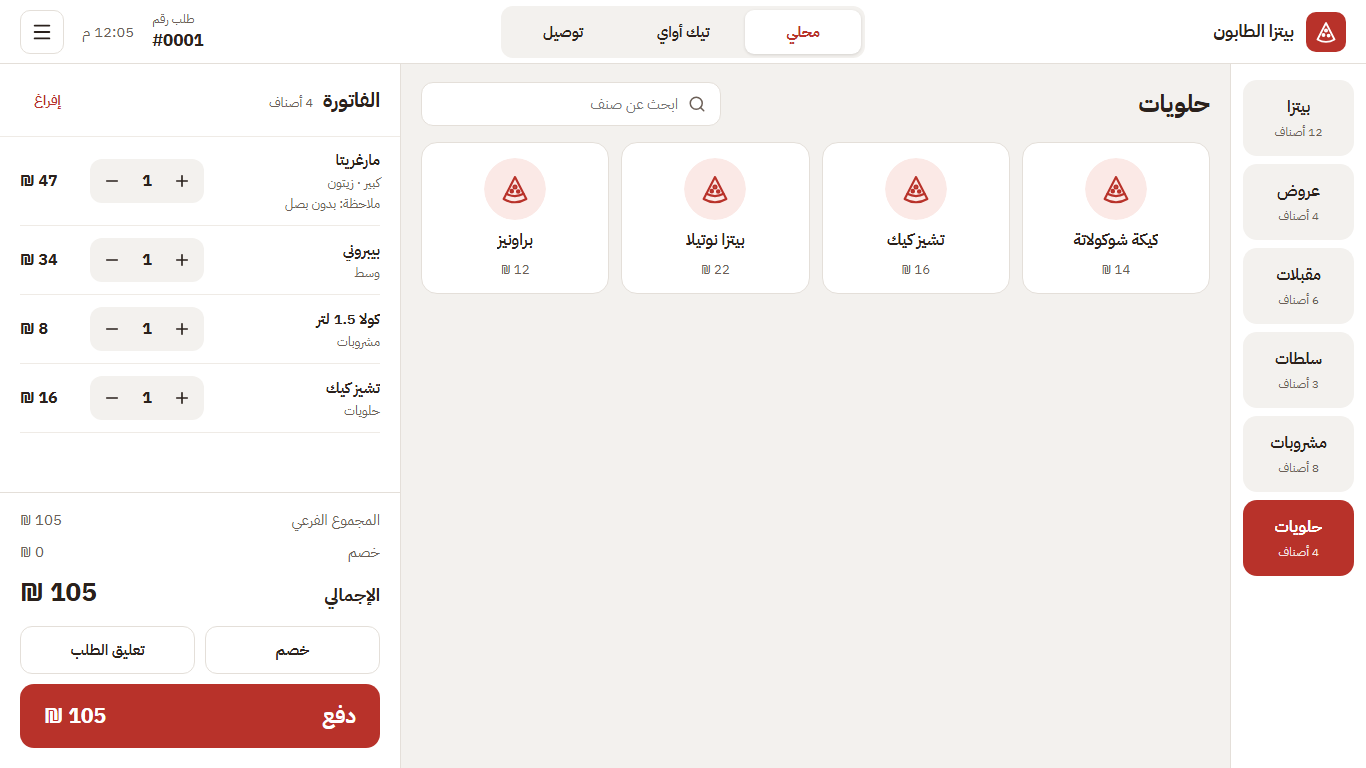
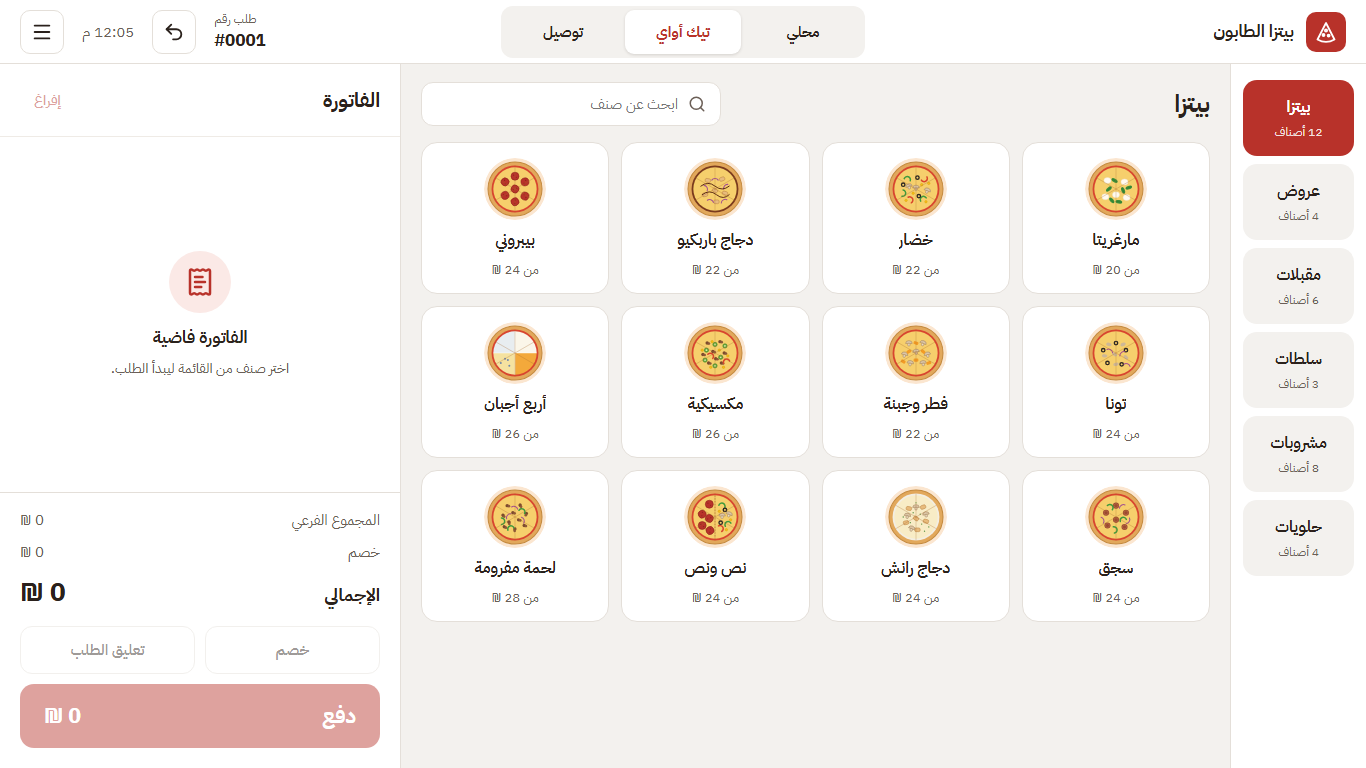
docs: README and screenshots for 0.2.2–0.2.6
New features: item pictures and gallery, compact tiles, adding to a paid
order (screen, receipt and kitchen ticket), delivery zones, delivery fees
for the drivers in the reports. Retaken: sale, delivery bill, report,
customer receipt and kitchen ticket.

Claude-Session: https://claude.ai/code/session_01Fxf86x6TtfntTqsfUUf7mP

diff --git a/README.md b/README.md
@@ -18,11 +18,14 @@
 
 | | الميزة | شو بتعمل |
 |---|---|---|
-| 🧾 | **شاشة البيع** | تصنيفات على اليمين، الأصناف بالنص، الفاتورة على اليسار. محلي / تيك أواي / توصيل، تعليق طلب واسترجاعه، بحث عن صنف |
+| 🧾 | **شاشة البيع** | تصنيفات على اليمين، الأصناف بالنص، الفاتورة على اليسار. محلي / تيك أواي / توصيل، تعليق طلب واسترجاعه، بحث عن صنف. أزرار الأصناف بحجم عادي أو **مضغوط** للشاشات الصغيرة |
+| 🖼 | **صور الأصناف** | رسمة جاهزة لكل صنف بالمنيو التجريبي، و**معرض** بتختار منه لأي صنف جديد، أو صورة من الجهاز (حتى صورة موبايل كبيرة، بتنقصّ وبتصغر لحالها) |
+| ➕ | **الإضافة على طلب مدفوع** | الزبون دفع وبعدين طلب كولا؟ زر "طلب سابق" بيرجّع الطلب عالفاتورة، بتضيف عليه وبتدفع **الفرق بس**، على نفس الطلب ونفس الرقم، والمطبخ بتوصله الإضافة بس |
 | 🍕 | **الأحجام والإضافات** | سعر لكل حجم، إضافات مدفوعة، كمية، وملاحظة للمطبخ |
 | 💵 | **الدفع** | كاش / بطاقة / تطبيق دفع، مبالغ سريعة، لوحة أرقام، حساب الباقي، ودفع مقسّم |
-| 🖨 | **الطباعة** | فاتورة الزبون وتذكرة المطبخ تلقائيًا بعد الدفع. طابعات حرارية 80 أو 58 مم (شبكة، USB، أو تعريف ويندوز) |
-| 🛵 | **التوصيل** | اسم الزبون وهاتفه وعنوانه، رسوم التوصيل، وبيتذكّر الزبون من رقم هاتفه |
+| 🖨 | **الطباعة** | فاتورة الزبون وتذكرة المطبخ تلقائيًا بعد الدفع. طابعات حرارية 80 أو 58 مم (شبكة، USB، أو تعريف ويندوز). خيار لإخفاء رقم الطلب ورقم الفاتورة عن فاتورة الزبون |
+| 🛵 | **التوصيل** | اسم الزبون وهاتفه وعنوانه، رسوم التوصيل (ثابتة أو يدوية)، وبيتذكّر الزبون من رقم هاتفه |
+| 🗺 | **مناطق التوصيل** | قرى ومناطق قريبة لكل وحدة رسوم ثابتة: بتختار المنطقة والرسوم بتنحط لحالها. والرسوم ممكن تكون **للشوفارية**: بتطلع على فاتورة الزبون بس ما بتنحسب من مبيعات المحل ولا من كاش الدرج |
 | 🏷 | **الخصومات** | نسبة أو مبلغ، بحد أقصى، وبموافقة المدير |
 | ↩ | **الإلغاء** | إلغاء طلب أو صنف من "طلبات اليوم" مع السبب وموافقة المدير |
 | 📊 | **التقارير** | تقرير اليوم، إغلاق اليوم (Z) ونسخة (X)، تقرير حسب الساعة، وتقارير لفترة |
@@ -43,15 +46,27 @@
 |---|---|
 | ![اختيار الحجم](screenshots/size-picker.png) | ![الدفع](screenshots/payment.png) |
 | السعر بيتحدّث مع الحجم والإضافات والكمية | المطلوب، المستلم، الباقي، مبالغ سريعة |
-| **طلب توصيل** | **الخصم** |
-| ![توصيل](screenshots/delivery-bill.png) | ![خصم](screenshots/discount.png) |
-| بيانات الزبون فوق الفاتورة ورسوم التوصيل بالمجموع | نسبة أو مبلغ، وبيطلب PIN المدير |
+| **أزرار مضغوطة** | **معرض الصور** |
+| ![أزرار مضغوطة](screenshots/sale-compact.png) | ![معرض الصور](screenshots/gallery.png) |
+| أصناف أكثر بنفس الشاشة، بدون تمرير | رسمة لأي صنف بضغطة، أو صورة من الجهاز |
+| **طلب سابق** | **الإضافة على طلب مدفوع** |
+| ![طلب سابق](screenshots/previous-orders.png) | ![الإضافة على طلب مدفوع](screenshots/add-to-paid.png) |
+| طلبات اليوم المدفوعة، و"إضافة" على أي واحد | الأصناف المدفوعة مقفولة، والدفع للفرق بس |
+| **فاتورة الإضافة** | **تذكرة المطبخ للإضافة** |
+| ![فاتورة الإضافة](screenshots/receipt-addition.png) | ![تذكرة المطبخ للإضافة](screenshots/receipt-kitchen-addition.png) |
+| الطلب كامل بالدفعتين، ومكتوب "إضافة على الطلب" | الأصناف الجديدة بس |
+| **طلب توصيل** | **منطقة التوصيل** |
+| ![توصيل](screenshots/delivery-bill.png) | ![منطقة التوصيل](screenshots/delivery-zones.png) |
+| بيانات الزبون ومنطقته فوق الفاتورة، ورسوم المنطقة بالمجموع | ضغطة على المنطقة بتحط رسومها لحالها |
+| **مناطق التوصيل** | **الخصم** |
+| ![مناطق التوصيل](screenshots/delivery-zones-settings.png) | ![خصم](screenshots/discount.png) |
+| القرى القريبة ورسوم كل وحدة | نسبة أو مبلغ، وبيطلب PIN المدير |
 | **طلبات اليوم** | **تقرير اليوم** |
 | ![طلبات اليوم](screenshots/orders.png) | ![تقرير اليوم](screenshots/report.png) |
-| إعادة طباعة، إلغاء، واسترجاع الطلبات المعلّقة | حسب طريقة الدفع ونوع الطلب، الأكثر مبيعًا، إغلاق اليوم |
+| إعادة طباعة، إلغاء، واسترجاع الطلبات المعلّقة | المبيعات بدون رسوم الشوفارية، والرسوم لحالها، والكاش المفروض بالدرج |
 | **فاتورة الزبون المطبوعة** | **تذكرة المطبخ** |
 | ![فاتورة الزبون](screenshots/receipt-customer.png) | ![تذكرة المطبخ](screenshots/receipt-kitchen.png) |
-| شعار المحل، الأصناف، الدفع والباقي | بدون أسعار، بخط كبير، مع الإضافات والملاحظات |
+| الزبون ومنطقته، الأصناف، رسوم التوصيل، الدفع | بدون أسعار، بخط كبير، مع الإضافات والملاحظات |
 | **الأصناف والأسعار** | **الطابعات** |
 | ![الأصناف](screenshots/menu-settings.png) | ![الطابعات](screenshots/printers.png) |
 | سعر لكل حجم، متوفر أو خلصان، والتعديل بيبيّن فورًا | معاينة حيّة للفاتورة، وطباعة تجريبية |
@@ -84,12 +99,17 @@ flowchart LR
 3. **بيضغط "دفع"**، بيختار طريقة الدفع، وبيكتب المبلغ المستلم، والبرنامج بيحسب الباقي.
 4. **"دفع وطباعة"** بيطبع فاتورة الزبون وتذكرة المطبخ، وبيفتح طلب جديد فاضي بالرقم الجاي.
 5. **طلب مش جاهز للدفع؟** "تعليق الطلب" بيحفظه، وبترجعله من "طلبات اليوم".
+6. **الزبون بده إشي كمان بعد ما دفع؟** زر "طلب سابق" (↶) جنب رقم الطلب بيفتح طلبات اليوم المدفوعة. "إضافة" بترجّع الطلب
+   عالفاتورة، بتضيف الصنف، وبتدفع الفرق بس. نفس الطلب ونفس الرقم، وفاتورة جديدة للزبون، وتذكرة للمطبخ فيها الإضافة بس.
+7. **بالتوصيل** بيختار منطقة الزبون من "بيانات الزبون"، ورسومها بتنحط عالفاتورة لحالها.
 
 ### آخر اليوم
 
 - **"تقرير اليوم"** بيعرض المبيعات، وعدد الطلبات، والتوزيع حسب طريقة الدفع ونوع الطلب، والأصناف الأكثر مبيعًا، والكاش
   المفروض يكون بالدرج.
 - **"إغلاق اليوم"** (بـ PIN المدير) بيطبع تقرير Z، وبيقفل طلبات اليوم، وبيبلّش ترقيم جديد لليوم الجاي.
+- **رسوم التوصيل للشوفارية؟** إذا "رسوم التوصيل من مدخول المحل" مطفي، الرسوم بتطلع لحالها بالتقرير "(للشوفارية)"، والمبيعات
+  والكاش المفروض بالدرج بينحسبوا بدونها.
 - **اليوم التجاري بيخلص الساعة 4 الفجر**، فطلبات بعد نص الليل بتنحسب على نفس اليوم.
 
 ### البيانات والنسخ الاحتياطي
